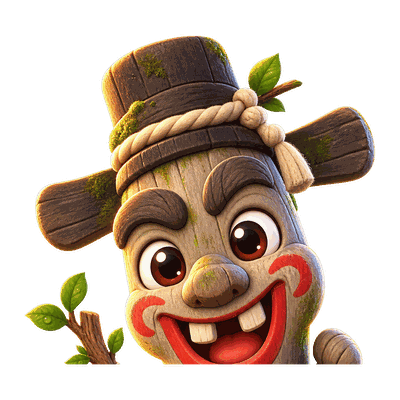
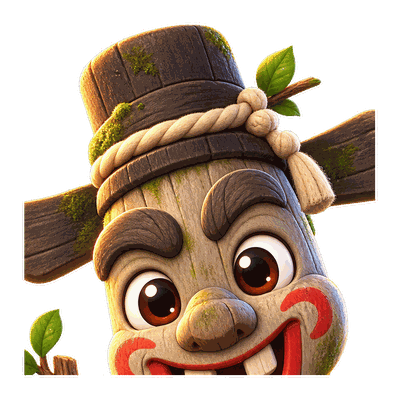
윷만 상점 캐릭터를 못 쓰고 있었다 — 그리고 큰 자리엔 전체 그림을 쓴다
재성님 지적("너무 잘리는 것 아닌가")에서 시작해 세 가지가 나왔다.

① **윷은 CHARS를 아예 안 봤다.** 다른 12게임은 공용 모듈을 보는데 윷만 제 목록(무료 5종)을
   손으로 들고 있었다. 그래서 8/4에 판 호랑이·토끼·곰·여우·도깨비가 **윷에서만** 조용히
   기본 아바타로 바뀌고 있었다. 저장값을 읽는 곳에도 5종이 또 적혀 있어, 골라 저장해도
   다시 들어오면 돼지로 돌아갔다. 에러가 없어 아무도 몰랐다.
   → ANIMAL_IMG/ANIMAL_KR을 CHARS에서 채우고, 고르기 목록은 CHARS.ids()(산 것)에서 온다.
   실측: 윷에서 18종이 고르기·판·진행중 표시 전부 정상.

② **큰 자리에서 잘린 그림을 보고 있었다.** 결과창 우승자는 96~124px, VS 인트로는 74~132px인데
   판 위 말(15~37px)에 맞춘 잘린 판본을 그대로 쓰고 있었다.
   → chars.js에 `full`(자르지 않은 전체)을 두고 그 두 곳만 전체판을 쓴다(+270KB, 8장).

③ **--bust만으로는 얼굴이 안 커진다.** 정사각 변이 가로로 정해지는데 위만 잘라서 그렇다.
   0.62→0.42로 줄여도 얼굴은 그대로고 아래 여백만 늘었다(실측).
   → `--tight` 추가: 불투명 픽셀의 가로 중앙값에 맞춰 가로도 잘라낸다.
     머리가 한쪽으로 치우친 캐릭터가 많아 단순 가운데 자르기로는 얼굴이 반쯤 잘린다.
   8종을 tight로 다시 뽑으니 32px에서 눈에 띄게 잘 읽힌다. 청룡도 꽤 나아졌다.

확인: test:chars 10게임 · check:drift OK · 정적 번들 26장.

diff --git a/public/yut.html b/public/yut.html
@@ -2210,8 +2210,27 @@ html[data-theme="hanji"]{ --bg:#f2f3f5; --bg2:#ffffff; --panel:#ffffff; --panel2
   const NM=['범','토끼','곰','개구리','여우','판다'];
   const PCOL=['#e0683c','#3c9ae0','#e0a23c','#5ee0a8','#c9a0ff','#ff7a8a'];
   const ANIMAL_IMG={"pig": "img/pig.png", "dog": "img/dog.png", "sheep": "img/sheep.png", "cow": "img/cow.png", "horse": "img/horse.png"};
+  /* ANIMAL_ORDER는 **기본 배정**(자리 순서대로 도개걸윷모)이다. 고를 수 있는 목록이 아니다.
+     고르는 목록은 buildCharPick이 CHARS에서 가져온다(산 것만). */
   const ANIMAL_ORDER=['pig','dog','sheep','cow','horse'];
   const ANIMAL_KR={pig:'돼지',dog:'개',sheep:'양',cow:'소',horse:'말'};
+
+  /* 🔴 2026-08-11 — **윷만 상점 캐릭터를 못 쓰고 있었다.**
+     다른 12게임은 공용 모듈(CHARS)을 보는데 윷은 제 목록 5종만 갖고 있었다.
+     그래서 8/4에 판 호랑이·토끼·곰·여우·도깨비가 **윷에서만** 조용히 기본 아바타로 바뀌었다
+     (`pieceAnimal`이 ANIMAL_IMG에 없는 id를 못 찾고 자리 기본값으로 떨어진다 — 에러가 없어 안 보인다).
+     여기서 CHARS를 합쳐 18종이 전부 윷에서도 그려지게 한다.
+     ⚠ 큰 자리(결과창 우승자·VS 인트로)는 `full` 판본을 쓴다 — 아래 ANIMAL_IMG_BIG 참고. */
+  const ANIMAL_IMG_BIG={};
+  try{
+    if(window.CHARS && CHARS.all) CHARS.all().forEach(function(c){
+      ANIMAL_IMG[c.id]=c.img;
+      ANIMAL_KR[c.id]=c.kr;
+      ANIMAL_IMG_BIG[c.id]=c.full||c.img;
+    });
+  }catch(e){ /* chars.js가 없어도 무료 5종으로는 돌아간다 */ }
+  /** 크게 보여주는 자리용 그림 — 없으면 작은 판본으로 떨어진다 */
+  function animalImgBig(id){ return ANIMAL_IMG_BIG[id] || ANIMAL_IMG[id] || ''; }
   const YUT_SUB={'-1':'뒷도',1:'돼지·도',2:'개',3:'양·걸',4:'소·윷',5:'말·모'};
   // 노드 좌표 (0~1)
   const NODE=[
@@ -2244,7 +2263,10 @@ html[data-theme="hanji"]{ --bg:#f2f3f5; --bg2:#ffffff; --panel:#ffffff; --panel2
       if(typeof t.pit==='boolean') cfg.pit=t.pit;
       if(Array.isArray(t.ev)) cfg.eventTypes=t.ev.filter(x=>['boost','bonus','back','gold'].includes(x)); } }catch(e){}
   const TEAM_COL=['#4a90d9','#e0683c']; const TEAM_NAME=['🔵 청팀','🔴 홍팀'];
-  try{ const sc=localStorage.getItem('yut_char'); if(sc && ['pig','dog','sheep','cow','horse'].includes(sc)) cfg.character=sc; }catch(e){}
+  /* ⚠ 예전엔 여기 무료 5종을 **또 손으로 적어** 두고 그것만 인정했다.
+     그래서 상점 캐릭터를 골라 저장해도 다시 들어오면 조용히 돼지로 돌아갔다.
+     그릴 수 있는 것(ANIMAL_IMG)이면 인정한다 — 목록이 한 군데(CHARS)에서만 온다. */
+  try{ const sc=localStorage.getItem('yut_char'); if(sc && ANIMAL_IMG[sc]) cfg.character=sc; }catch(e){}
   let soundOn=true; try{ soundOn=localStorage.getItem('alley_sound')!=='0'; }catch(e){}
   let lastComboEmoji=null, comboN=0, lastComboT=0, prevMembers=null, prevConn=null, wasPlaying=false;
 
@@ -2439,7 +2461,10 @@ html[data-theme="hanji"]{ --bg:#f2f3f5; --bg2:#ffffff; --panel:#ffffff; --panel2
   function renderAch(){ const el=$('achbar'); if(!el)return; el.innerHTML=ACH.map(a=>{ const on=achUnlocked.includes(a.id); return `<div class="achbadge${on?' on':''}" title="${a.name}: ${a.desc}">${on?a.icon:'🔒'}<span>${a.name}</span></div>`; }).join(''); }
   function buildCharPick(){
     const el=$('charPick'); if(!el)return; el.innerHTML='';
-    ANIMAL_ORDER.forEach(a=>{ const b=document.createElement('button'); b.type='button'; b.className='charbtn'+(a===cfg.character?' on':''); b.dataset.c=a;
+    /* 고를 수 있는 목록은 **산 것 전부**다(CHARS.ids()가 안 산 것을 걸러 준다).
+       예전엔 ANIMAL_ORDER(무료 5종)만 돌아서 상점에서 산 캐릭터가 윷에선 목록에 뜨지도 않았다. */
+    const pickable = (window.CHARS && CHARS.ids) ? CHARS.ids() : ANIMAL_ORDER;
+    pickable.forEach(a=>{ if(!ANIMAL_IMG[a]) return; const b=document.createElement('button'); b.type='button'; b.className='charbtn'+(a===cfg.character?' on':''); b.dataset.c=a;
       b.innerHTML=`<img src="${ANIMAL_IMG[a]}" alt="${ANIMAL_KR[a]}"><span class="cknm">${ANIMAL_KR[a]}</span>`;
       b.onclick=()=>{ cfg.character=a; try{localStorage.setItem('yut_char',a);}catch(e){} buildCharPick(); }; el.appendChild(b); });
   }
@@ -2965,7 +2990,8 @@ html[data-theme="hanji"]{ --bg:#f2f3f5; --bg2:#ffffff; --panel:#ffffff; --panel2
       rightTag=`<div class="vs-tag">${right.length>1?right.length+'인':esc((right[0]&&right[0].p.name)||'상대')}</div>`;
       title='윷놀이 · '+S.players.length+'인전';
     }
-    const av=o=>`<img class="vs-av" src="${ANIMAL_IMG[pieceAnimal(o.p,o.i)]||''}" alt="">`;
+    // 74~132px — 여기도 전체 그림
+    const av=o=>`<img class="vs-av" src="${animalImgBig(pieceAnimal(o.p,o.i))}" alt="">`;
     ov.innerHTML='<div class="vs-dim"></div><div class="vs-rays"></div>'
       +`<div class="vs-side vs-left${left.length>1?' multi':''}">${left.map(av).join('')}${leftTag}</div>`
       +`<div class="vs-side vs-right${right.length>1?' multi':''}">${right.map(av).join('')}${rightTag}</div>`
@@ -3106,7 +3132,8 @@ html[data-theme="hanji"]{ --bg:#f2f3f5; --bg2:#ffffff; --panel:#ffffff; --panel2
     if(!w){ hero.style.display='none'; hero.innerHTML=''; if(rb) rb.style.display=''; return; }
     const seat=(w.seat!=null)?w.seat:0; const av=pieceAnimal(w, seat);
     hero.style.display=''; hero.className='res-hero';
-    hero.innerHTML=`<div class="rh-crown">👑</div><div class="rh-av" style="--rim:${pieceColor(seat)}"><img src="${ANIMAL_IMG[av]}" alt="${esc(w.name)}"></div>`;
+    // 96~124px로 크게 나오는 자리 — 잘라낸 판본 대신 전체 그림을 쓴다(다리·소품까지 보인다)
+    hero.innerHTML=`<div class="rh-crown">👑</div><div class="rh-av" style="--rim:${pieceColor(seat)}"><img src="${animalImgBig(av)}" alt="${esc(w.name)}"></div>`;
     if(rb) rb.style.display='none';   // 히어로가 focal → 이모지 숨김
   }
   function confettiBurst(){

diff --git a/public/chars.js b/public/chars.js
@@ -39,17 +39,21 @@
     { id: 'fox',      kr: '여우',   img: 'img/fox.png',      shop: 'char_fox' },
     { id: 'dokkaebi', kr: '도깨비', img: 'img/dokkaebi.png', shop: 'char_dokkaebi' },
     /* ── 상점 캐릭터 2차 (2026-08-11) — 짐승 얼굴 밖으로.
+       `full`은 **자르지 않은 전체 그림**이다. img는 판 위 말(15~37px)에서 얼굴이 보이게
+       바짝 자른 판본이라 다리·소품이 잘려 있다. 결과창 우승자(96~124px)·VS 인트로(74~132px)처럼
+       크게 보여주는 자리는 full을 쓴다 — 안 그러면 큰 화면에서 잘린 그림을 보게 된다.
+       full이 없는 캐릭터(기존 10종)는 img로 떨어진다.
        기존 10종이 전부 네발짐승이고 색이 따뜻한 쪽에 몰려 있었다. 이 8종은
        ① 짐승이 아닌 실루엣(사물·사람)과 ② 안 쓰인 색(먹·옥·금·진홍·청)으로 갈랐다.
        근거·프롬프트: outputs/production/2026-08-11_dice-alley_character-set-3.md */
-    { id: 'yutgarak',   kr: '윷가락',   img: 'img/yutgarak.png',   shop: 'char_yutgarak' },
-    { id: 'bokjumeoni', kr: '복주머니', img: 'img/bokjumeoni.png', shop: 'char_bokjumeoni' },
-    { id: 'chorong',    kr: '청사초롱', img: 'img/chorong.png',    shop: 'char_chorong' },
-    { id: 'jangseung',  kr: '장승',     img: 'img/jangseung.png',  shop: 'char_jangseung' },
-    { id: 'haetae',     kr: '해태',     img: 'img/haetae.png',     shop: 'char_haetae' },
-    { id: 'sansin',     kr: '산신령',   img: 'img/sansin.png',     shop: 'char_sansin' },
-    { id: 'yong',       kr: '청룡',     img: 'img/yong.png',       shop: 'char_yong' },
-    { id: 'jeoseung',   kr: '저승사자', img: 'img/jeoseung.png',   shop: 'char_jeoseung' }
+    { id: 'yutgarak',   kr: '윷가락',   img: 'img/yutgarak.png', full: 'img/yutgarak_full.png',   shop: 'char_yutgarak' },
+    { id: 'bokjumeoni', kr: '복주머니', img: 'img/bokjumeoni.png', full: 'img/bokjumeoni_full.png', shop: 'char_bokjumeoni' },
+    { id: 'chorong',    kr: '청사초롱', img: 'img/chorong.png', full: 'img/chorong_full.png',    shop: 'char_chorong' },
+    { id: 'jangseung',  kr: '장승',     img: 'img/jangseung.png', full: 'img/jangseung_full.png',  shop: 'char_jangseung' },
+    { id: 'haetae',     kr: '해태',     img: 'img/haetae.png', full: 'img/haetae_full.png',     shop: 'char_haetae' },
+    { id: 'sansin',     kr: '산신령',   img: 'img/sansin.png', full: 'img/sansin_full.png',     shop: 'char_sansin' },
+    { id: 'yong',       kr: '청룡',     img: 'img/yong.png', full: 'img/yong_full.png',       shop: 'char_yong' },
+    { id: 'jeoseung',   kr: '저승사자', img: 'img/jeoseung.png', full: 'img/jeoseung_full.png',   shop: 'char_jeoseung' }
   ];
 
   var BY_ID = {};

diff --git a/scripts/process-char-art.py b/scripts/process-char-art.py
@@ -16,6 +16,8 @@
   # --bust N : 전신 소스를 상단 N 비율만 잘라 상반신으로(예: 말 전신 → 0.60). 생략 시 전체.
   # --bg none: 원본에 알파가 이미 들어 있을 때(네 모서리가 투명). 색으로 안 지운다 —
   #            어두운 배경 위의 검은 머리카락을 같이 먹는 사고를 막는다.
+  # --tight  : 가로도 잘라 얼굴을 키운다. --bust만으로는 정사각 변이 가로로 정해져
+  #            얼굴이 안 커지고 아래 여백만 늘어난다(실측).
   # 예) python3 scripts/process-char-art.py ~/Downloads/pig_happy.png public/img/pig_happy.png
 
 의존: Pillow (pip install Pillow)
@@ -135,7 +137,7 @@ def remove_bg(im, mode='auto', tol=4, alpha_cut=40):
     return _apply(im, im.load(), seen, w, h)
 
 
-def process(src, dst, bust=None, size=400, quant=True, margin=0.14, bg='auto', tol=4):
+def process(src, dst, bust=None, size=400, quant=True, margin=0.14, bg='auto', tol=4, tight=False):
     im = remove_bg(Image.open(src), mode=bg, tol=tol)
     bb = im.getbbox()
     if not bb:
@@ -152,6 +154,34 @@ def process(src, dst, bust=None, size=400, quant=True, margin=0.14, bg='auto', t
         bb = (l, t, r, t + int((b - t) * bust))
     im = im.crop(bb)
     w, h = im.size
+
+    if tight and w > h:
+        """🔴 --bust만으로는 얼굴이 안 커진다 (2026-08-11 실측).
+           정사각 변은 max(w,h)= **가로**로 정해지는데, 위를 잘라도 가로는 그대로다.
+           그래서 bust를 0.62→0.42로 줄이면 얼굴은 그대로고 **아래 여백만 늘어난다.**
+           얼굴을 실제로 키우려면 가로도 잘라야 한다 — 남은 그림의 무게중심에 맞춰
+           세로 길이만큼의 정사각을 가로에서 떠낸다. (머리가 한쪽으로 치우친 캐릭터가 많아
+           단순 가운데 자르기로는 얼굴이 반쯤 잘린다 — 해태·윷가락이 그랬다.)"""
+        a = im.split()[3]
+        colsum = [0] * w
+        px = a.load()
+        for y in range(0, h, max(1, h // 120)):        # 성기게 훑어도 무게중심은 안 흔들린다
+            for x in range(w):
+                if px[x, y] > 128:
+                    colsum[x] += 1
+        tot = sum(colsum) or 1
+        acc = 0
+        cx = w // 2
+        for x in range(w):                             # 불투명 픽셀의 가로 중앙값
+            acc += colsum[x]
+            if acc * 2 >= tot:
+                cx = x
+                break
+        left = max(0, min(w - h, cx - h // 2))
+        im = im.crop((left, 0, left + h, h))
+        w, h = im.size
+        print(f'  가로도 잘랐다(tight) — 무게중심 x={cx}, {left}~{left+h}')
+
     side = int(max(w, h) * (1 + margin))       # 여백 두고 정사각
     sq = Image.new('RGBA', (side, side), (0, 0, 0, 0))
     sq.paste(im, ((side - w) // 2, (side - h) // 2), im)
@@ -173,5 +203,7 @@ if __name__ == '__main__':
     ap.add_argument('--bg', choices=['auto', 'checker', 'grad', 'none'], default='auto',
                     help='배경 종류. auto=체커 먼저 시도 후 그라데이션 (기본)')
     ap.add_argument('--tol', type=int, default=4, help='grad 모드 허용 색차(작을수록 보수적)')
+    ap.add_argument('--tight', action='store_true',
+                    help='가로도 잘라 얼굴을 키운다(판 위 말처럼 작게 쓰는 판본용). --bust와 같이 쓴다')
     a = ap.parse_args()
-    process(a.src, a.dst, bust=a.bust, size=a.size, quant=not a.no_quant, bg=a.bg, tol=a.tol)
+    process(a.src, a.dst, bust=a.bust, size=a.size, quant=not a.no_quant, bg=a.bg, tol=a.tol, tight=a.tight)
